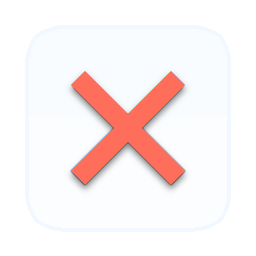
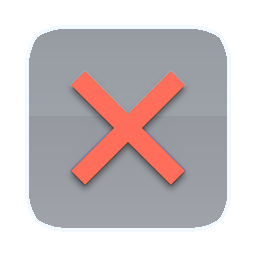
QC run 11 fixes: unit depth at the feet, smaller Commander, parked drones hidden, smoked glass buttons, title kept on screen
- UnitSprite writes the depth of the unit's feet, so building cards no longer slice units
- Commander picture about 35% smaller
- parked 3D drones are hidden until they lift off to fight
- glass buttons get a ~45% dark smoked backing so glyphs read over bright trees
- floating selection title is clamped inside the safe area
- preview: toasts cleared before the stills, wide still pulled in, new Commander close-up still

Claude-Session: https://claude.ai/code/session_01GKWtHZHG8edstZffBYRzEW

diff --git a/Assets/Emberhold/Scripts/Dev/PreviewTour.cs b/Assets/Emberhold/Scripts/Dev/PreviewTour.cs
@@ -42,7 +42,7 @@ namespace Emberhold
             for (float w = 0f; w < 8f && Building.All.Exists(x => x.UnderConstruction); w += Time.deltaTime) yield return null;   // every building finished rising
 
             // ---- stills, day ----
-            hud.PreviewCloseAll();
+            hud.PreviewCloseAll(); hud.PreviewClearToasts(); yield return null;   // QC: no stale toast across the stills
             View(new Vector3(0f, 0f, 6f), 78f); yield return Shot("01_day_city");
             View(new Vector3(0f, 0f, 9f), 52f); yield return Shot("02_day_close");
             View(gm.Castle.Center + new Vector3(0, 0, -6f), 34f); yield return Shot("03_hq_troops");
@@ -109,7 +109,9 @@ namespace Emberhold
 
             // ---- wide closing still ----
             yield return new WaitForSeconds(2.5f);   // let the clear puffs fade before the still
-            View(new Vector3(0f, 0f, 6f), 78f); yield return Shot("12_city_wide");
+            View(new Vector3(0f, 0f, 3f), 70f); yield return Shot("12_city_wide");   // QC: 78 showed past the backdrop
+            var hero = FindHero();
+            if (hero != null) { View(hero.transform.position + new Vector3(0, 0, 2f), 30f); yield return new WaitForSeconds(0.3f); yield return Shot("13_commander_close"); }
             Debug.Log("[Preview] done: " + frame + " video frames in " + Dir + "/frames");
             Running = false; Finished = true;
         }
@@ -176,6 +178,12 @@ namespace Emberhold
             }
             Debug.Log("[Preview] gate wait " + t.ToString("0.0") + "s, dinos " + Enemy.All.Count);
             yield return new WaitForSeconds(0.15f);
+        }
+
+        Unit FindHero()
+        {
+            foreach (var u in Unit.All) if (u != null && u.isHero) return u;
+            return null;
         }
 
         Building First(string id)

diff --git a/Tools/glass_badges.py b/Tools/glass_badges.py
@@ -24,16 +24,21 @@ def glass(src):
     shape = ndimage.binary_erosion(tile, iterations=int(w * 0.04))
     soft = np.clip(ndimage.distance_transform_edt(shape) / 1.5, 0, 1)
     ys = np.linspace(0, 1, h)[:, None]
-    fill = (0.30 - 0.16 * ys) * np.ones((1, w))
     rim = shape & ~ndimage.binary_erosion(shape, iterations=max(2, int(w * 0.018)))
-    sheen = shape & (np.arange(h)[:, None] < h * 0.47) & ~ndimage.binary_erosion(shape, iterations=int(w * 0.07)) == False
-    tint = np.array([235, 245, 255], np.float32)
-    out[..., :3] = tint
-    alpha = fill * soft
-    alpha = np.where(rim, 0.70, alpha)
-    # soft highlight band over the top half
-    top = shape & (np.arange(h)[:, None] < h * 0.45)
-    alpha = np.where(top & ~rim, alpha + 0.07, alpha)
+    # QC: a see-through dark smoked glass (about 45% black) so white glyphs stay readable over bright
+    # trees and grass, with a light rim and a soft sheen on the top half
+    dark = np.array([22, 30, 44], np.float32)
+    white = np.array([235, 245, 255], np.float32)
+    top = shape & (np.arange(h)[:, None] < h * 0.45) & ~rim
+    out[..., :3] = dark
+    alpha = (0.50 - 0.10 * ys) * np.ones((1, w)) * soft
+    # sheen: blend some white over the top half
+    sheen_a = np.where(top, 0.10, 0.0)
+    out[..., :3] = (out[..., :3] * alpha[..., None] * (1 - sheen_a[..., None]) + white * sheen_a[..., None])
+    alpha = sheen_a + alpha * (1 - sheen_a)
+    out[..., :3] = out[..., :3] / np.maximum(alpha[..., None], 1e-3)
+    out[rim, :3] = white
+    alpha = np.where(rim, 0.65, alpha)
     # glyph drop shadow
     sh = ndimage.gaussian_filter(ndimage.shift(cov, (w * 0.016, 0), order=1), w * 0.012) * 0.45
     base_rgb = out[..., :3] * alpha[..., None]

diff --git a/Assets/Emberhold/Scripts/UI/HUD.cs b/Assets/Emberhold/Scripts/UI/HUD.cs
@@ -586,6 +586,7 @@ namespace Emberhold
             selTitle.text = sel.Ruined ? sel.Def.displayName + "  (ruined)" : Title(sel);
             var top = sel.transform.position + Vector3.up * (sel.Def.height + 1.0f);
             PlaceAt(selTitle.rectTransform, top, new Vector2(0, 30));
+            ClampOnScreen(selTitle.rectTransform, selTitle.preferredWidth + 20f, 60f);
 
             bool broken = sel.Ruined || (sel.Damaged && !sel.UnderConstruction);
             bool upgrading = sel.Data.IsUpgrading;
@@ -949,6 +950,22 @@ namespace Emberhold
             var world = b.transform.position + new Vector3(s.x * 0.5f + 0.6f, 0, 0);
             PlaceAt(ui, world, Vector2.zero);
         }
+
+        /// <summary>Keeps a floating label inside the safe area, below the resource bar (QC: clipped HQ title).</summary>
+        void ClampOnScreen(RectTransform ui, float width, float height)
+        {
+            var canvas = ui.GetComponentInParent<Canvas>();
+            var safe = Screen.safeArea;
+            float k = canvas.scaleFactor;
+            float minX = safe.xMin / k + width * 0.5f + 16f, maxX = safe.xMax / k - width * 0.5f - 16f;
+            float minY = safe.yMin / k + height * 0.5f + 16f, maxY = safe.yMax / k - 330f;   // under the resource bar and Commander row
+            var p = ui.anchoredPosition;
+            p.x = minX > maxX ? (minX + maxX) * 0.5f : Mathf.Clamp(p.x, minX, maxX);
+            p.y = Mathf.Clamp(p.y, minY, Mathf.Max(minY, maxY));
+            ui.anchoredPosition = p;
+        }
+
+        public void PreviewClearToasts() { toasts.Clear(); toastUntil = 0f; }
 
         void PlaceAt(RectTransform ui, Vector3 world, Vector2 pixelOffset)
         {

diff --git a/Assets/Emberhold/Scripts/Army/Unit.cs b/Assets/Emberhold/Scripts/Army/Unit.cs
@@ -95,7 +95,7 @@ namespace Emberhold
             body = new GameObject("Body").transform;
             body.SetParent(transform, false);
             // Peter's painted white-and-gold soldiers and Commander (Resources/Sprites/Portraits)
-            var pic = !flies && portrait != null ? DinoSprite.CreateUnit(transform, portrait, height * (isHero ? 1.65f : 2.1f)) : null;
+            var pic = !flies && portrait != null ? DinoSprite.CreateUnit(transform, portrait, height * (isHero ? 1.05f : 2.1f)) : null;
             if (pic != null)
             {
                 sprite = pic;
@@ -224,6 +224,10 @@ namespace Emberhold
                 p.y = WorldBuilder.HeightAt(p) + altitude + bob;
                 transform.position = p;
                 if (parked && anim == null) body.localPosition = Vector3.zero;
+                // QC: the 3D craft clash with the painted city; parked drones are hidden (the pad art already
+                // shows them) and only appear once they lift off to fight
+                bool show = !(parked && altitude <= 0.3f);
+                if (body.gameObject.activeSelf != show) body.gameObject.SetActive(show);
             }
         }
 
